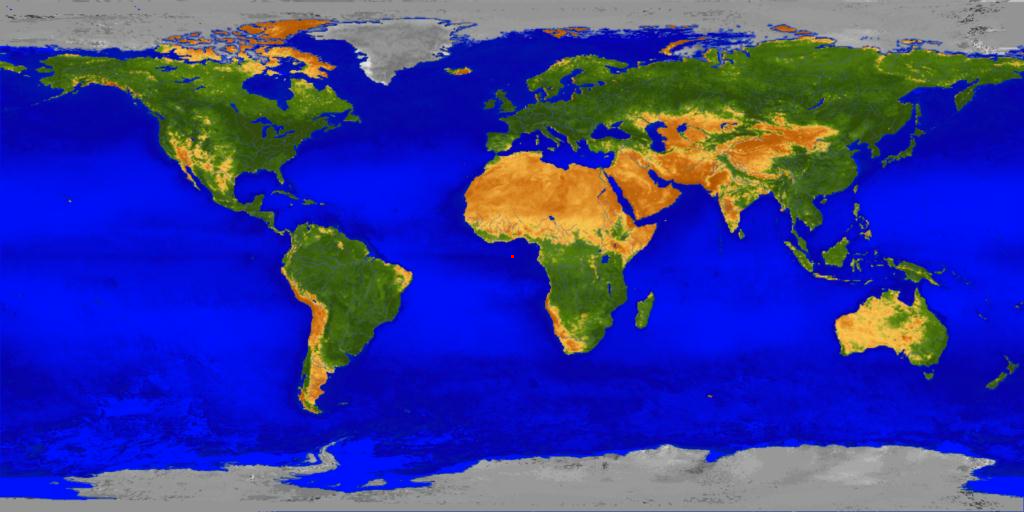
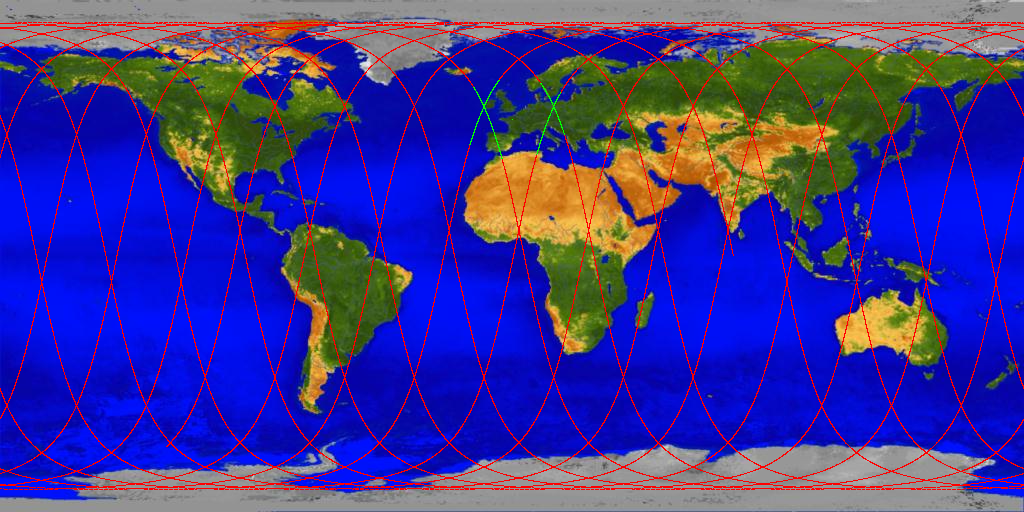
Added sat and modem plotting. Initial results look good.

diff --git a/satview/src/main.rs b/satview/src/main.rs
@@ -24,42 +24,118 @@ fn main() -> anyhow::Result<()>{
        so much duplication. Not important at this time.
     */
 
+    /* IMG PROCESSING BLOCK */
     let mut input_image = image::open("BigEarth.jpg").unwrap();
     let (width, height) = input_image.dimensions();
     let mut out: image::RgbaImage = image::ImageBuffer::new(width, height);
-
-    let lat = 0;
-    let lon = 0;
-
-    let x = width * (180 + lat) / 360; //row
-    let y = height * (90 - lon) / 180; //col
-
-    let center      = (x,y);
-    let top         = (x, y+1);
-    let bot         = (x, y-1);
-    let left        = (x-1, y);
-    let right       = (x+1, y);
-    let top_right   = (x+1, y-1);
-    let top_left    = (x-1, y-1);
-    let bot_right   = (x+1, y+1);
-    let bot_left    = (x-1, y+1);
-
-    let pix_vec = vec![center, top, bot, left, right, top_right, top_left, bot_right, bot_left];
-
+    
+    // Create the output map.
     for x_iter in 0..input_image.width() { 
         for y_iter in 0..input_image.height() {
             let color = input_image.get_pixel(x_iter,y_iter);
             let pix_tuple = (x_iter, y_iter);
-            let mut matched_val: bool = false;
 
-            if is_matched(&pix_vec, &pix_tuple) {
-                out.put_pixel(x_iter,y_iter,image::Rgba([255,0,0,255]));
+            // if is_matched(&pix_vec, &pix_tuple) {
+            //     out.put_pixel(x_iter,y_iter,image::Rgba([255,0,0,255]));
 
-                continue;
-            }
-
+            //     continue;
+            // }
+            
             out.put_pixel(x_iter,y_iter,color);
         }
+    }
+    
+    /* END IMG PROCESSING BLOCK */
+
+    /* SAT PROP BLOCK */
+    let file = File::open("src/tle2.txt").unwrap();
+    let reader = BufReader::new(file); 
+    let mut tle_string = String::from("");
+
+    for line in reader.lines() { 
+        tle_string.push_str(line.unwrap().as_str());
+        tle_string.push_str("\n");
+    }
+
+    let mut gateway_phoenix: observer::Observer = observer::Observer::new([33.4484, -112.0740, 0.00]);
+    let mut terminal: observer::Observer = observer::Observer::new([48.0, 0.0, 0.00]);
+
+    let gateway_color: [u8; 4] = [255,0,0,255]; // Red 0% transparent.
+    let terminal_color: [u8; 4] = [0,255,0,255]; // Green 0% transparent.
+
+    // Plot Observer point
+    let (mut x, mut y) = gimme_xy(&terminal.geodetic_coords.longitude, &terminal.geodetic_coords.latitude, &height, &width);
+    let pix_vec = get_pixel_vector(&(x,y));
+
+    for pixel in &pix_vec { 
+        color_pixel(&mut out, pixel, &terminal_color);
+    }
+
+
+    let mut sat_vec: Vec<Satellite> = Vec::new();
+    let sat_elements = parse_3les(&tle_string).unwrap();
+
+    for element in sat_elements { 
+        let sat_state: satellite::Satellite = Satellite::new(element);
+        sat_vec.push(sat_state);
+    }   
+
+    for n in 0..=3600 * 24 {
+        for satellite in 0..=sat_vec.len()-1 {
+            let sat_constants = sgp4::Constants::from_elements(&sat_vec[satellite].sat_elements).unwrap();
+            let elapsed_time = n;
+            let time_delta = chrono::TimeDelta::seconds(elapsed_time);
+            // let time_delta = chrono::TimeDelta::minutes(elapsed_time);
+            let new_epoch = sat_vec[satellite].sat_elements.datetime.checked_add_signed(time_delta).unwrap();
+
+            // The propagate function returns position as TEME reference frame coordinates in km and
+            // returns velocity in each dimension in terms of km/s
+            let prediction: sgp4::Prediction = sat_constants.propagate(sgp4::MinutesSinceEpoch((elapsed_time as f64 / 60.0) as f64))?;
+            // Sets satellite coordinates for all reference frames
+            sat_vec[satellite].update_sat_state(&prediction, &new_epoch);
+            
+            // Update observer state to pull in new teme coords with respect to new epoch
+            gateway_phoenix.update_state(&new_epoch);
+
+            terminal.update_state(&new_epoch);
+
+            // Set the look angle values
+            gateway_phoenix.calculate_look_angle(&prediction, &new_epoch);
+
+            terminal.calculate_look_angle(&prediction, &new_epoch);
+
+            let (mut x, mut y) = gimme_xy(&sat_vec[satellite].geodetic_coordinates.longitude, &sat_vec[satellite].geodetic_coordinates.latitude, &height, &width);
+            let pix_vec = get_pixel_vector(&(x,y));
+        
+            for pixel in &pix_vec { 
+                color_pixel(&mut out, pixel, &gateway_color);
+            }
+
+            if radians_to_degrees(&terminal.look_angle.elevation) >= 15.0 {
+
+                let (mut x, mut y) = gimme_xy(&sat_vec[satellite].geodetic_coordinates.longitude, &sat_vec[satellite].geodetic_coordinates.latitude, &height, &width);
+                let pix_vec = get_pixel_vector(&(x,y));
+            
+                for pixel in &pix_vec { 
+                    color_pixel(&mut out, pixel, &terminal_color);
+                }
+
+                // println!("Datetime: {}", new_epoch);
+
+                // println!("Gateway  ---- Satellite: {}\t Elevation Angle: {:.6}\t Distance {:?}", sat_vec[satellite].sat_elements.norad_id, 
+                //                     satutil::radians_to_degrees(&gateway_phoenix.look_angle.elevation), gateway_phoenix.look_angle.distance);
+
+                // println!("Terminal ---- Satellite: {}\t Elevation Angle: {:.6}\t Distance {:?}", sat_vec[satellite].sat_elements.norad_id, 
+                //                     satutil::radians_to_degrees(&terminal.look_angle.elevation), terminal.look_angle.distance);
+
+                // println!("Satellite --- Lat: {}\tLon: {}\tAlt: {}\t\n", sat_vec[satellite].geodetic_coordinates.latitude, 
+                //                 sat_vec[satellite].geodetic_coordinates.longitude,
+                //                 sat_vec[satellite].geodetic_coordinates.altitude);
+                
+
+            }
+        }
+        // println!("\n");
     }
 
     out.save("out.png").unwrap();
@@ -76,4 +152,57 @@ pub fn is_matched(pix_vec: &Vec<(u32,u32)>, pix_tuple: &(u32, u32)) -> bool {
         }
     }
     false
+}
+
+pub fn color_pixel(image: &mut image::RgbaImage, pixel_coordinates: &(u32, u32), color: &[u8; 4]) { 
+    let (width, height) = image.dimensions();
+
+    if pixel_coordinates.0 >= width { 
+        return;
+    }
+    if pixel_coordinates.1 >= height { 
+        return;
+    }
+
+    image.put_pixel(pixel_coordinates.0, pixel_coordinates.1, image::Rgba(*color));
+}
+
+pub fn get_pixel_vector(center_pixel: &(u32, u32)) -> Vec<(u32, u32)> {
+        let x = center_pixel.0;
+        let y = center_pixel.1;
+        
+
+        // 9 pixel block
+        let center      = (x,y);
+        
+        // if x == img_dimensions.0 {
+
+        // }
+
+        // if y == img_dimensions.1 { 
+
+        // }
+
+        // let top         = (x, y+1);
+        // let bot         = (x, y-1);
+        // let left        = (x-1, y);
+        // let right       = (x+1, y);
+        // let top_right   = (x+1, y-1);
+        // let top_left    = (x-1, y-1);
+        // let bot_right   = (x+1, y+1);
+        // let bot_left    = (x-1, y+1);
+
+        // vec![center, top, bot, left, right, top_right, top_left, bot_right, bot_left]
+        vec![center]
+
+}
+
+pub fn gimme_xy(lat: &f64, lon: &f64, height: &u32, width: &u32) -> (u32, u32) { 
+    let h = *height as f64;
+    let w = *width as f64;
+
+    let x = (w as f64 * (180. + lat) / 360.).floor() as u32 ; //row
+    let y = (h as f64 * (90. - lon) / 180.).floor() as u32 ; //col
+
+    (x,y)
 }
